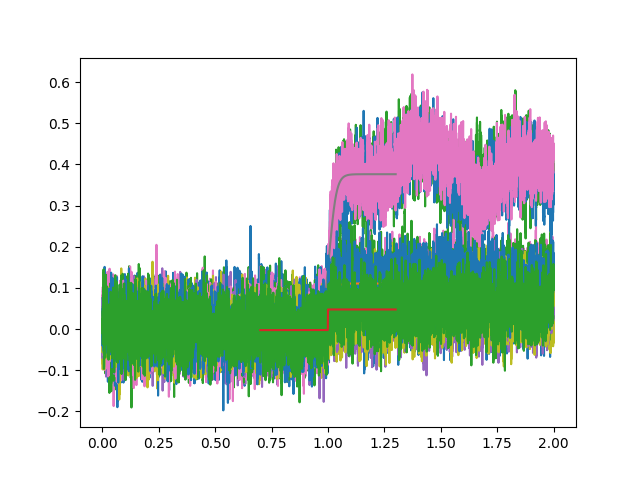
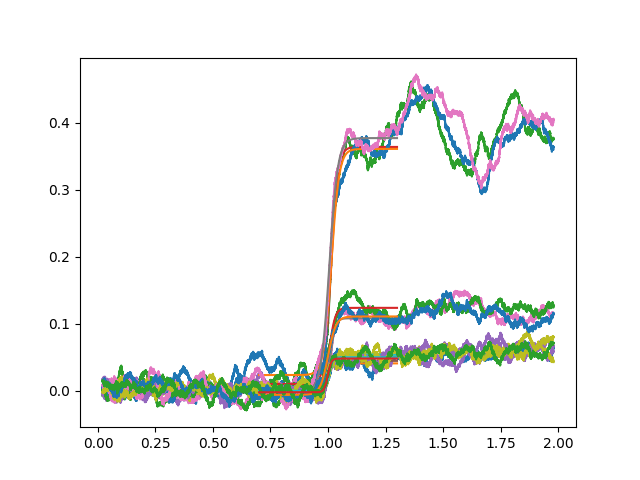
window 1000

diff --git a/python/post/post_utils.py b/python/post/post_utils.py
@@ -306,7 +306,7 @@ def extract_load_curves(logfile, delta=None, init_time=0, window=1,
     print("Length of log file: ", len(time))
 
     # smooth friction force
-    fx = running_mean(fx, 40)
+    fx = running_mean(fx, 1000)
 
     # convert friction force from eV/Å to μN (micro Newton)
     eV = value(u'elementary charge')  # J
